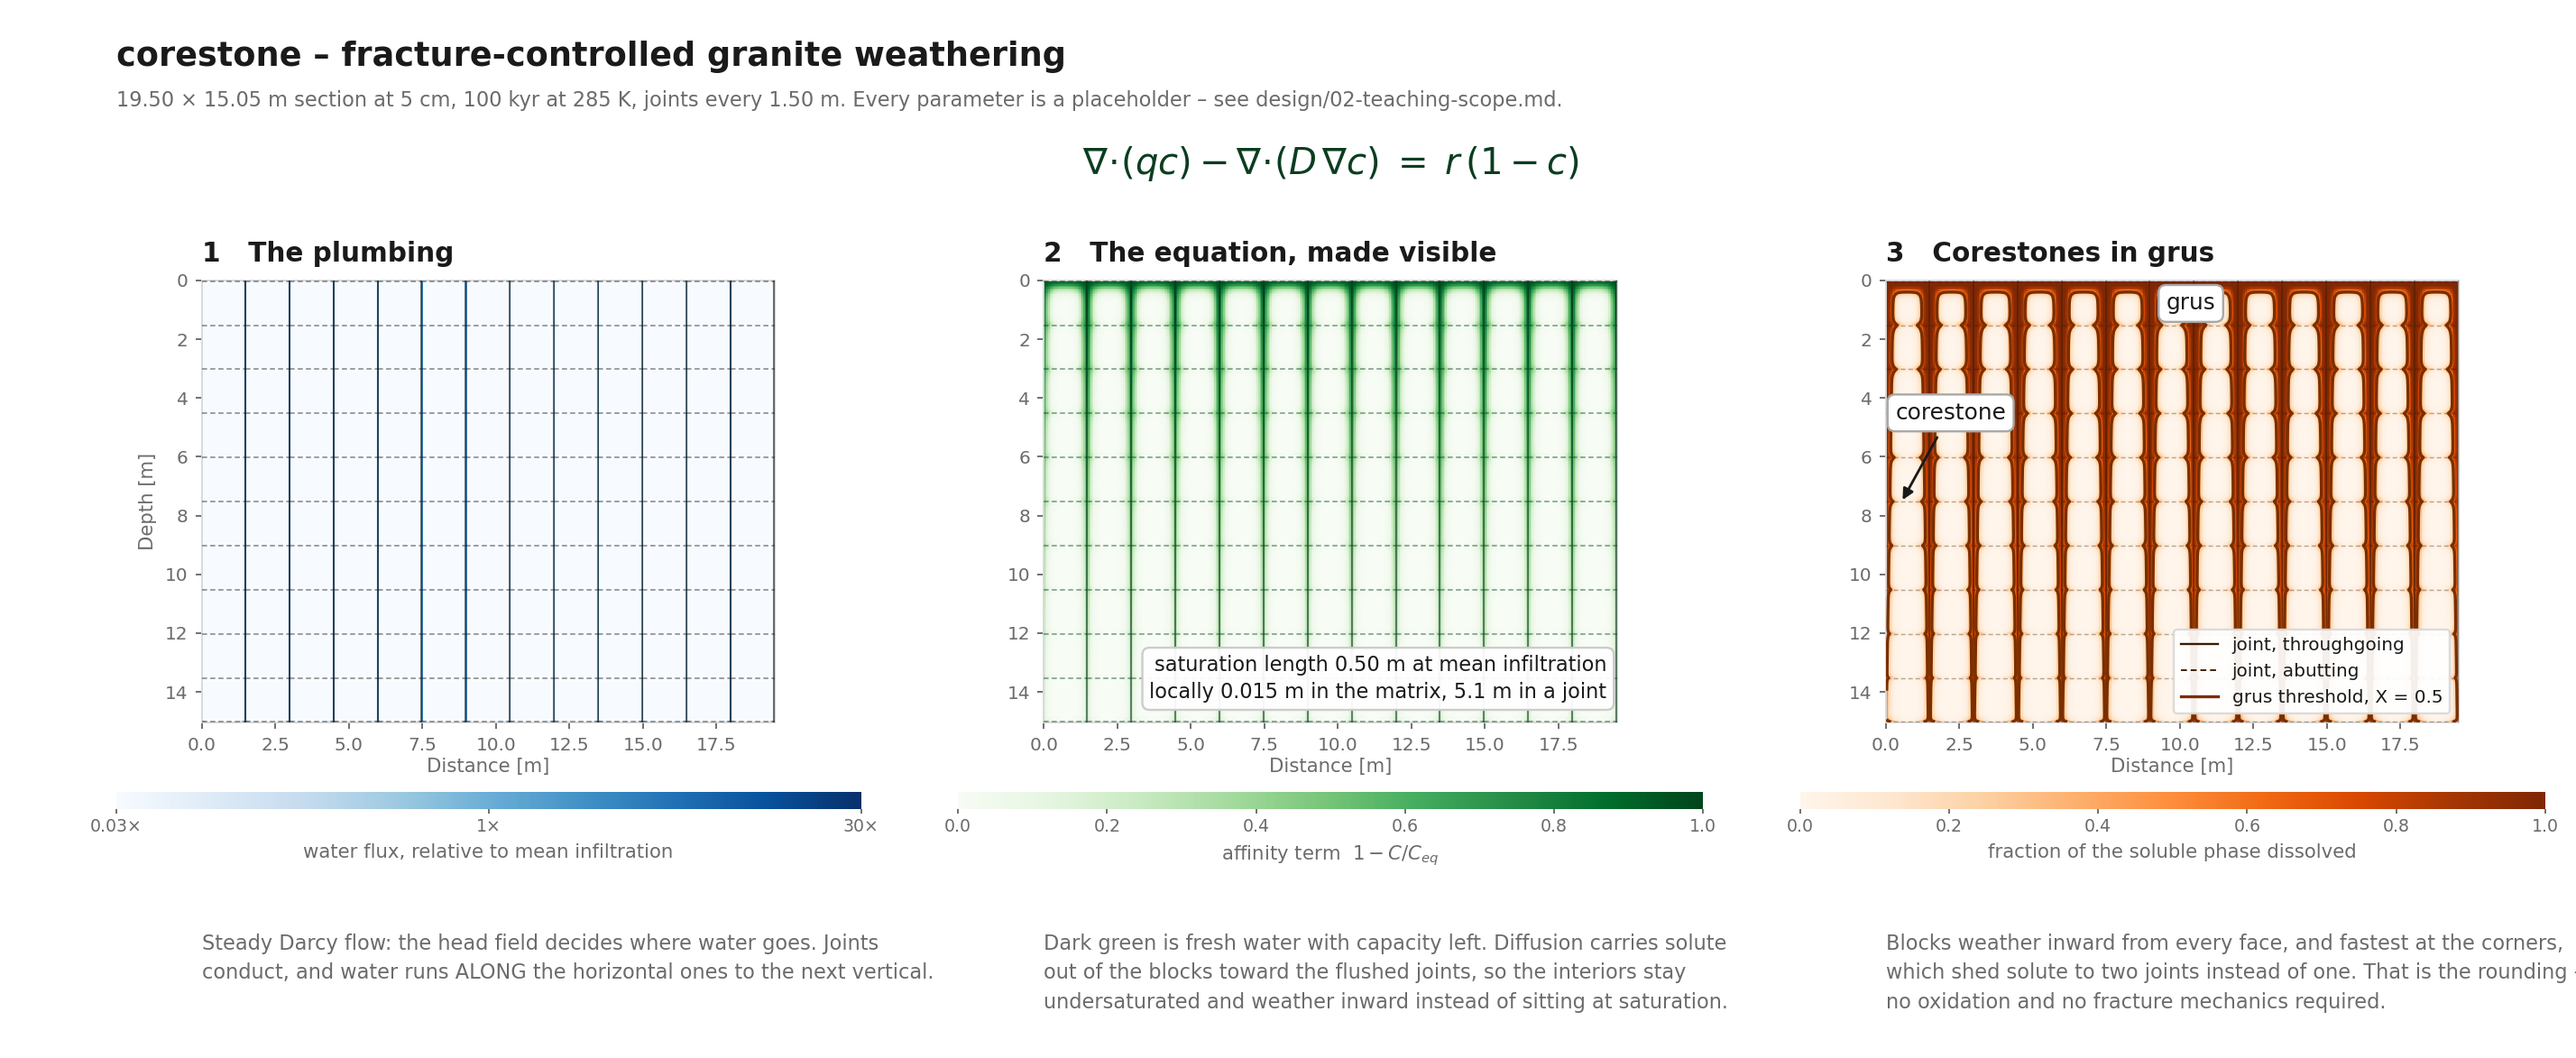
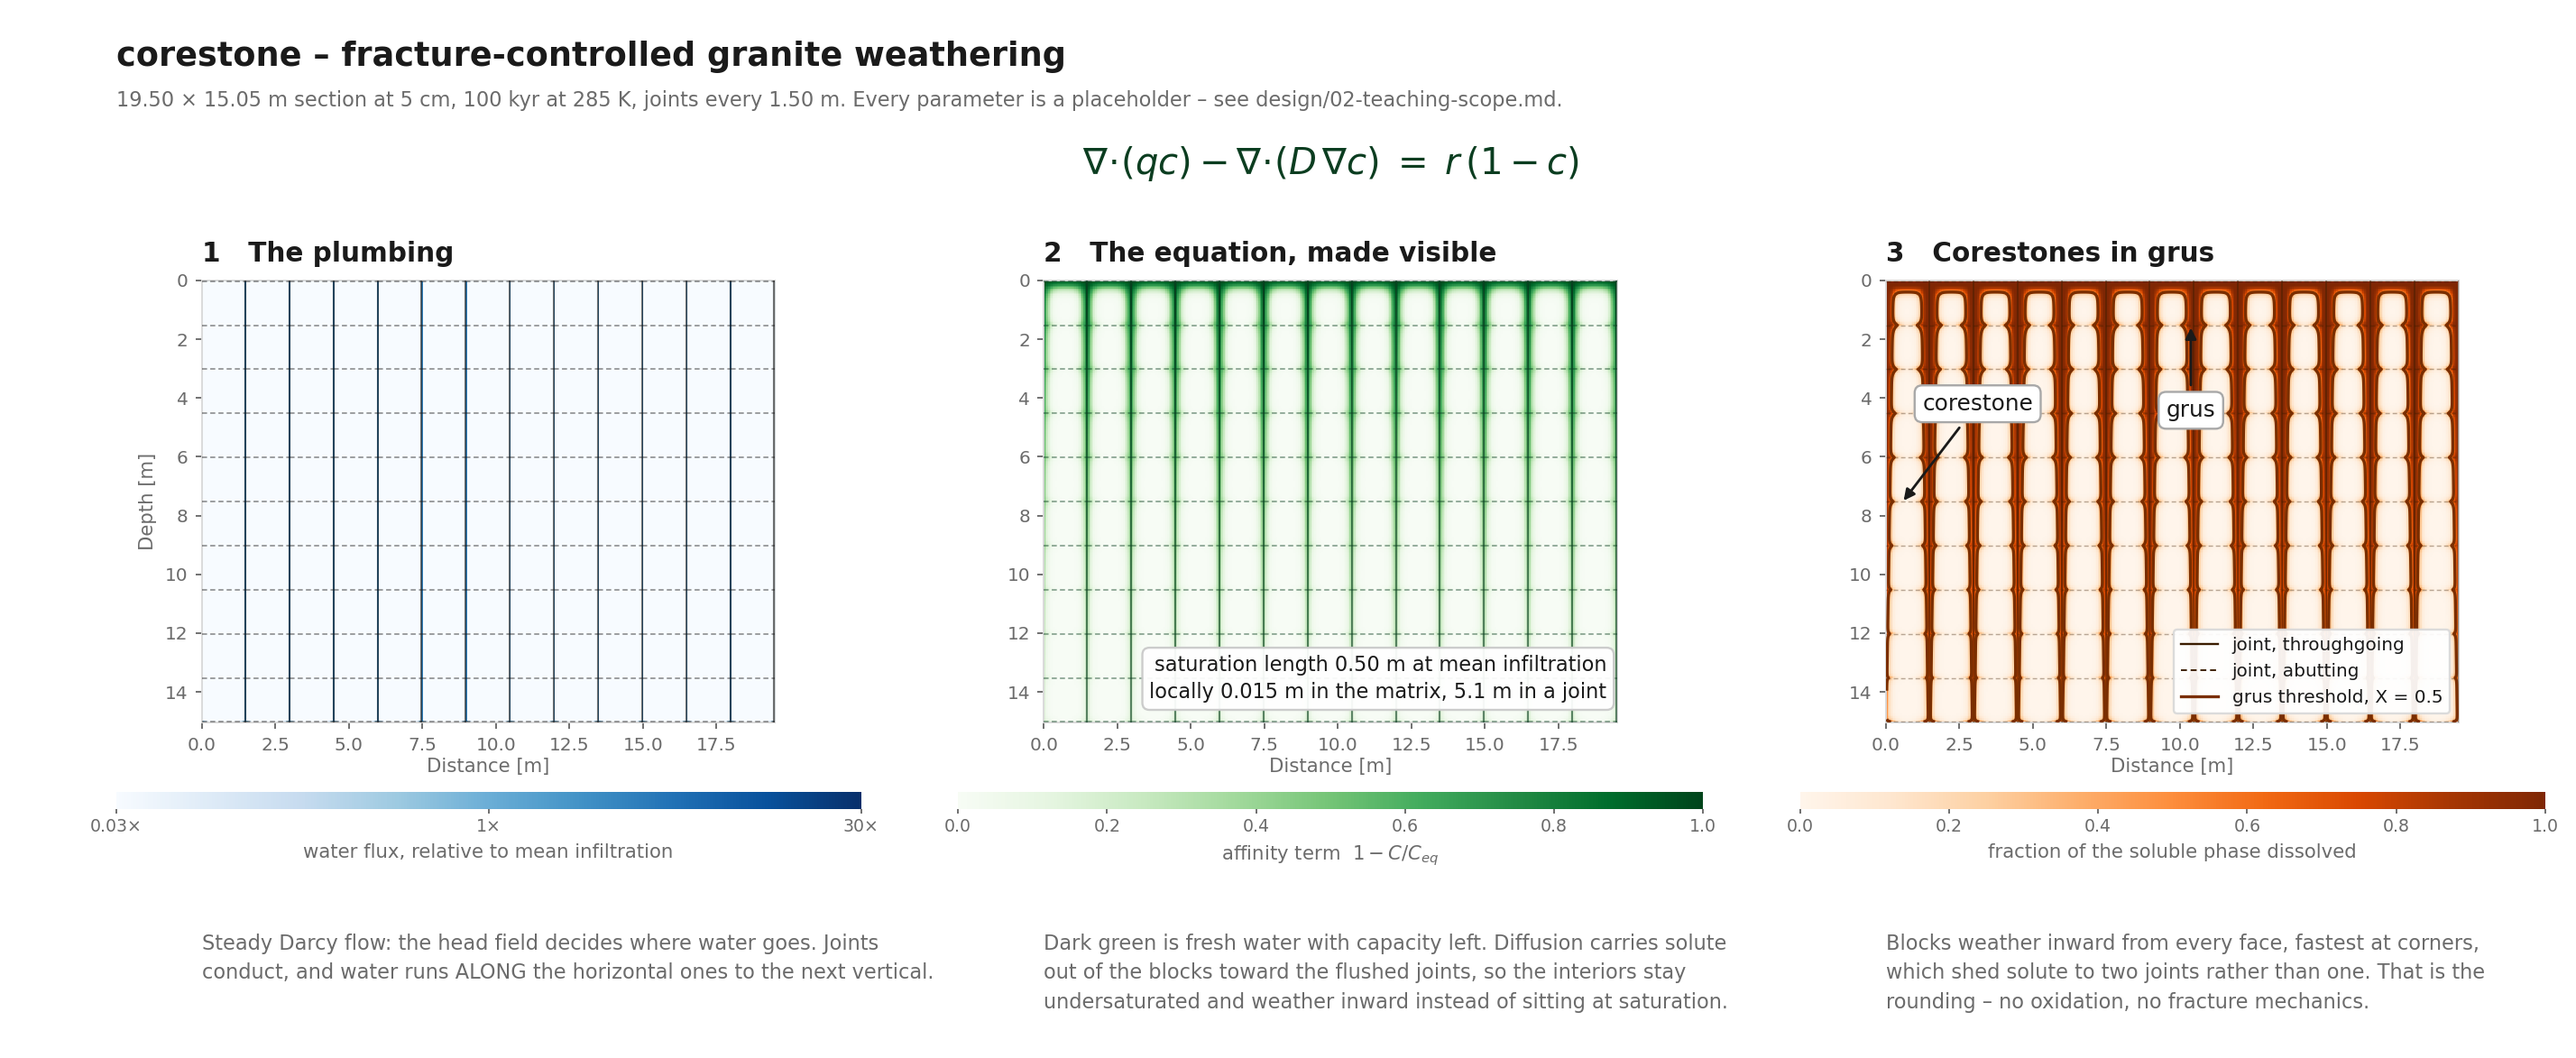
Parameterise the figure, and add a 4.5 m section alongside the 20 m one
--width/--depth/--dx/--spacing/--kyr/--out, defaults unchanged, so a variant
needs no second copy of the script and the existing figure is not clobbered.
Annotation offsets now scale with the section, which they did not before: on a
small domain the corestone and grus labels landed on top of each other.

A 5 m section snaps down to 4.50 x 4.55 m, because 1.5 m joints do not divide
5 m. Spacing 1.25 m would give exactly 5.00 m with four blocks across.

diff --git a/examples/figure_three_panel.py b/examples/figure_three_panel.py
@@ -7,8 +7,14 @@ is the point of the figure: the affinity term is the only field in the model,
 so putting it on screen is the difference between seeing the equation and being
 told it.
 
-    python3 examples/figure_three_panel.py            # writes the PNG
-    python3 examples/figure_three_panel.py --show     # and opens it
+    python3 examples/figure_three_panel.py                 # writes the PNG
+    python3 examples/figure_three_panel.py --show          # and opens it
+    python3 examples/figure_three_panel.py --width 5 --depth 5 \
+            --out examples/figure_5m_section.png           # a smaller section
+
+The domain is snapped down to a whole number of joint spacings, so the section
+actually drawn may be slightly smaller than the one asked for; the header
+states what was used.
 """
 import sys
 
@@ -25,13 +31,22 @@ from corestone import (FractureNetwork, Weathering, orthogonal_grid,
                        periodic_grid_shape)
 
 # ---- what to draw -------------------------------------------------------------
-DX = 0.05                                  # cell size [m]
-SPACING = 1.5                              # joint spacing [m]
-# Cell counts that let the joint set tile the section exactly, with a joint on
-# each wall and no odd block left over at the edges.
-NZ, NX = periodic_grid_shape(20.0, 15.0, DX, SPACING)
-KYR = 100.0                                # elapsed time
-OUT = "examples/figure_three_panel.png"
+def _arg(flag, default, cast=float):
+    """One command-line override, so a variant needs no second copy of this."""
+    return cast(sys.argv[sys.argv.index(flag) + 1]) if flag in sys.argv else default
+
+
+DX = _arg("--dx", 0.05)                    # cell size [m]
+SPACING = _arg("--spacing", 1.5)           # joint spacing [m]
+KYR = _arg("--kyr", 100.0)                 # elapsed time
+WIDTH = _arg("--width", 20.0)              # section width asked for [m]
+DEPTH = _arg("--depth", 15.0)              # section depth asked for [m]
+OUT = _arg("--out", "examples/figure_three_panel.png", str)
+
+# Cell counts that tile the period exactly, with a joint on each wall and none
+# repeated at the seam. The section is snapped DOWN to a whole number of joint
+# spacings, so it may come out smaller than asked for; the header says which.
+NZ, NX = periodic_grid_shape(WIDTH, DEPTH, DX, SPACING)
 
 net = FractureNetwork(NZ, NX, DX, periodic_x=True).seed(sets=orthogonal_grid(SPACING),
                                        rng=np.random.default_rng(12345))
@@ -143,9 +158,9 @@ ax.contour(np.linspace(DX / 2, LX - DX / 2, NX),
            X, levels=[model.x_grus], colors="#7a2e00", linewidths=1.4, zorder=4)
 joints(ax, color="#3a1c00", lw=0.8, alpha=0.42)
 dress(ax, "3   Corestones in grus",
-      "Blocks weather inward from every face, and fastest at the corners,\n"
-      "which shed solute to two joints instead of one. That is the rounding –\n"
-      "no oxidation and no fracture mechanics required.")
+      "Blocks weather inward from every face, fastest at corners,\n"
+      "which shed solute to two joints rather than one. That is the\n"
+      "rounding – no oxidation, no fracture mechanics.")
 bar(im, cbax[2], "fraction of the soluble phase dissolved")
 
 # Label a corestone genuinely surrounded by grus, and a grus patch, keeping the
@@ -158,11 +173,14 @@ core = np.unravel_index(
     np.argmax(np.where(model.is_corestone & half, enclosed, -1.0)), X.shape)
 gi = np.unravel_index(
     np.argmax(np.where(model.is_grus & ~half, enclosed, -1.0)), X.shape)
-for (iz, ix), label, off in ((core, "corestone", -3.0), (gi, "grus", -3.4)):
+# Offsets scale with the section, so the labels do not collide on a small one.
+_pad_x, _pad_z = 0.16 * LX, 0.09 * LZ
+for (iz, ix), label, off in ((core, "corestone", -0.22 * LZ),
+                             (gi, "grus", +0.22 * LZ)):
     x0, z0 = ix * DX + DX / 2, iz * DX + DX / 2
     ax.annotate(label, xy=(x0, z0),
-                xytext=(np.clip(x0, 2.2, LX - 2.2),
-                        np.clip(z0 + off, 1.0, LZ - 1.0)),
+                xytext=(np.clip(x0, _pad_x, LX - _pad_x),
+                        np.clip(z0 + off, _pad_z, LZ - _pad_z)),
                 ha="center", fontsize=10.5, color=INK, zorder=6,
                 bbox=dict(boxstyle="round,pad=0.34", fc="white", ec="#a8a8a8"),
                 arrowprops=dict(arrowstyle="-|>", color=INK, lw=1.2,
